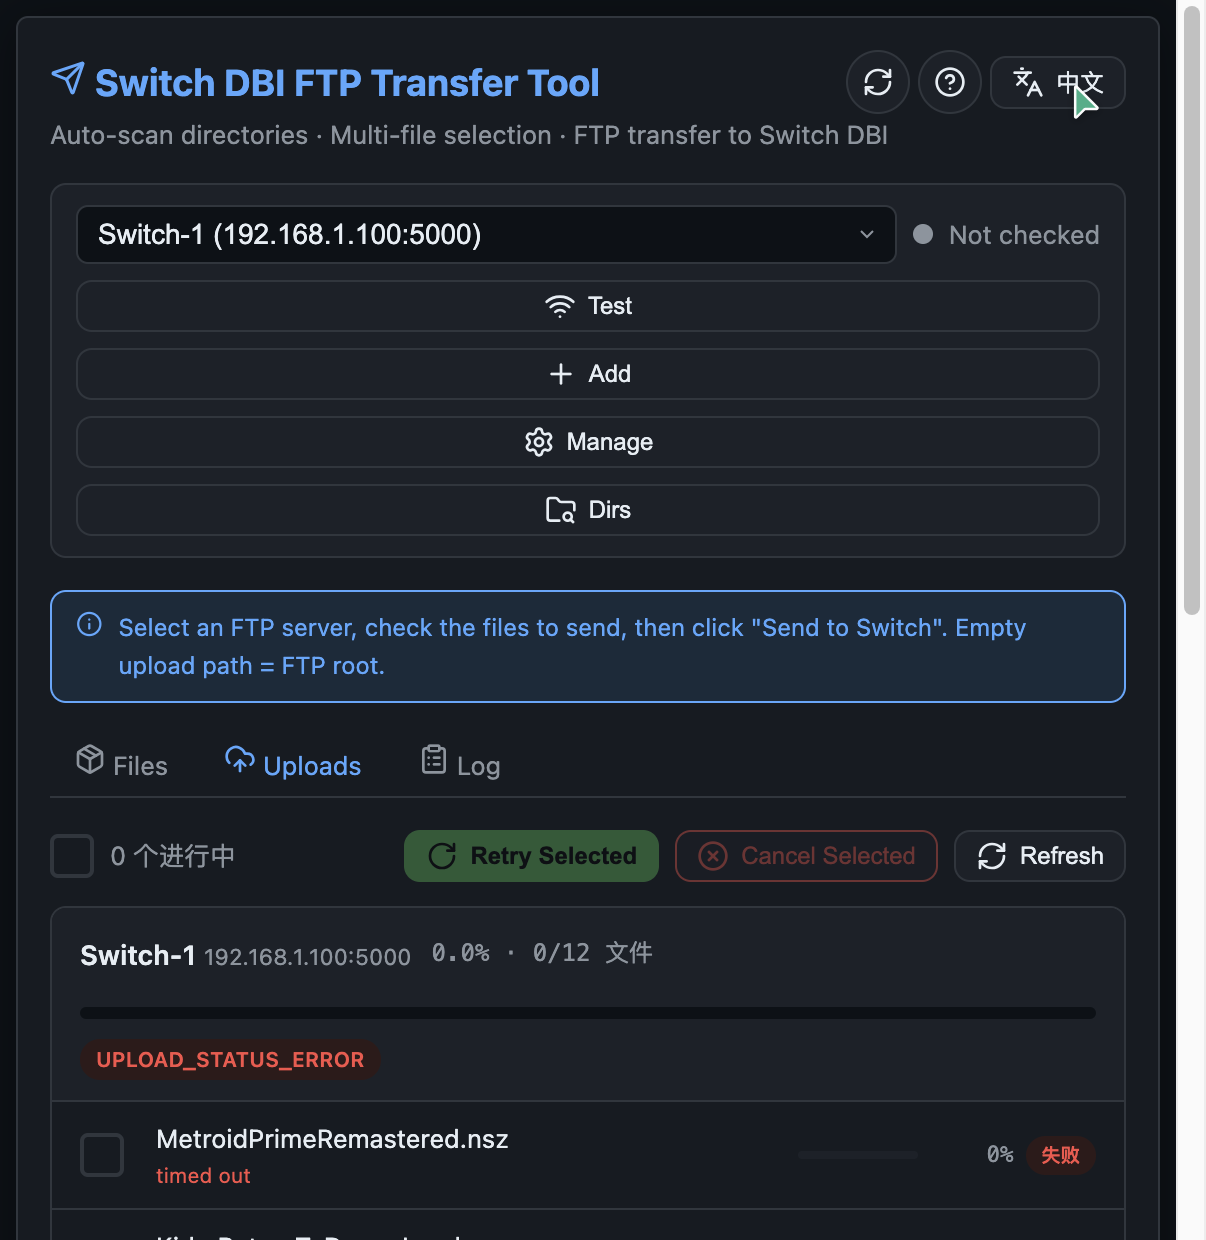
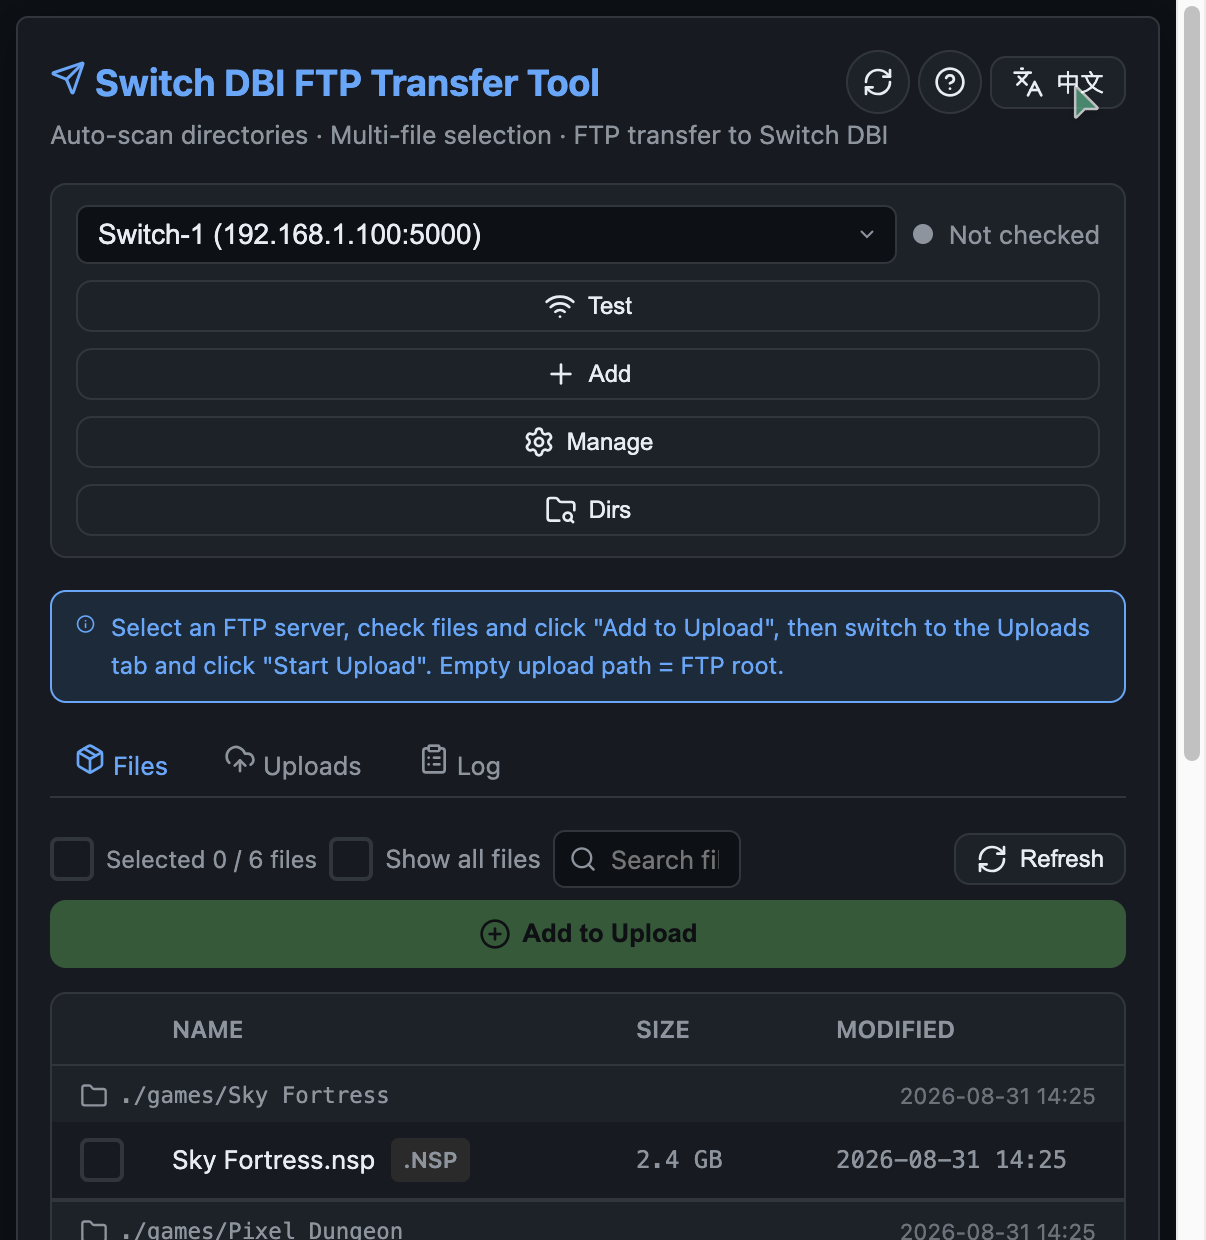
chore: 更新截图资源与gitignore，替换png为jpg格式
1. 新增多个功能截图的jpg版本文件
2. 删除对应的旧png格式截图文件
3. 更新README.md中的图片引用路径
4. 添加.DS_Store文件到gitignore忽略列表

diff --git a/README.md b/README.md
@@ -14,15 +14,15 @@
 
 ### 勾选文件
 
-![勾选文件](screenshots/selected-files.png)
+![勾选文件](screenshots/selected-files.jpg)
 
 ### 上传列表（传输中）
 
-![上传列表-传输中](screenshots/upload-list-active.png)
+![上传列表-传输中](screenshots/upload-list-active.jpg)
 
 ### 上传列表（失败+重试）
 
-![上传列表-失败重试](screenshots/upload-list-failed.png)
+![上传列表-失败重试](screenshots/upload-list-failed.jpg)
 
 ### English Interface
 
@@ -30,11 +30,11 @@
 
 ### 帮助 & 排查
 
-![帮助 & 排查](screenshots/help-modal.png)
+![帮助 & 排查](screenshots/help-modal.jpg)
 
 ### 添加 FTP 服务器
 
-![添加 FTP 服务器](screenshots/add-server-modal.png)
+![添加 FTP 服务器](screenshots/add-server-modal.jpg)
 
 ## 功能特性
 
